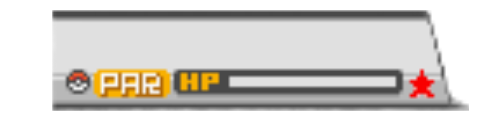
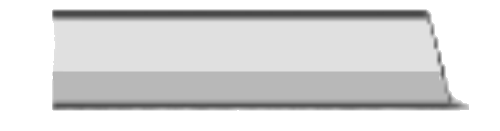
css 0.1.1

Changed region(s): [[0.09, 0.5191, 0.9, 0.7634], [0.09, 0.8244, 0.93, 0.855], [0.09, 0.0611, 0.87, 0.0916]]

diff --git a/src/app/components/pelea_carpeta/campo-de-batalla/campo-de-batalla.component.html b/src/app/components/pelea_carpeta/campo-de-batalla/campo-de-batalla.component.html
@@ -4,13 +4,13 @@
 
     <section>
 
-        <section id="datoBack">
+        <section class="dato" id="datoBack">
             <p id="nombreBack">{{j1.pokemons[pokemonPeleandoj1].nombre}}</p>
             <div>barra de vida</div>
             <p>{{j1.pokemons[pokemonPeleandoj1].vidaActual}} / {{j1.pokemons[pokemonPeleandoj1].vida}}</p>
             <ol>efectos</ol>
-            <img src='./../../../../assets/img/pokeUI.png' alt="img " srcset="" id="ImgBack">
-        </section>
+<!--             <img src='./../../../../assets/img/pokeUI.png' alt="img " srcset="" id="ImgBack">
+ -->        </section>
 
         <img [src]="j1.pokemons[pokemonPeleandoj1].urlImgBack" alt="imgPokeActual" id="imagenTrasera">
 <!--         <img src="https://raw.githubusercontent.com/PokeAPI/sprites/master/sprites/pokemon/back/145.png" alt="imgPokeActual" id="imagenTrasera">
@@ -19,13 +19,13 @@
 
     <!--parte inferior-->
     <section>
-        <section id="datoFront">
+        <section class="dato" id="datoFront">
             <p id="nombreFront">{{j2.pokemons[pokemonPeleandoj2].nombre}}</p>
             <div>barra de vida</div>
             <p>{{j2.pokemons[pokemonPeleandoj2].vidaActual}} / {{j2.pokemons[pokemonPeleandoj2].vida}}</p>
             <ol>efectos</ol>
-            <img src='./../../../../assets/img/pokeUI.png' alt="img" srcset="" id="ImgFront">
-        </section>
+<!--             <img src='./../../../../assets/img/pokeUI.png' alt="img" srcset="" id="ImgFront">
+ -->        </section>
 
         <img [src]="j2.pokemons[pokemonPeleandoj2].urlImgFront" alt="imgPokeActual" id="imagenDelantera">
         <!-- <img src="https://raw.githubusercontent.com/PokeAPI/sprites/master/sprites/pokemon/146.png" alt="imgPokeActual" id="imagenDelantera"> -->

diff --git a/src/app/components/pelea_carpeta/campo-de-batalla/campo-de-batalla.component.css b/src/app/components/pelea_carpeta/campo-de-batalla/campo-de-batalla.component.css
@@ -36,22 +36,24 @@
 }
 
 #datoBack{
+    
     position: absolute;
     top: 90%;
     left: 70%; /* Adjust this value as needed */
     transform: translate(-50%, -50%);
-    height: 30vh;
-    width: 30vh;
+    height: 10vh;
+    width: 40vh;
     
 }
 
 #datoFront{
+   
     position: absolute;
     top: 30%;
-    left: 15%; /* Adjust this value as needed */
+    left: 20%; /* Adjust this value as needed */
     transform: translate(-50%, -50%);
-    height: 30vh;
-    width: 30vh;
+    height: 10vh;
+    width: 40vh;
     z-index: 1;
 }
 
@@ -73,4 +75,16 @@
     left: 50%;
     z-index: 1;
     /* Other styles */
+}
+.dato{
+    border-style: solid;
+    background-image: url(src\assets\img\pokeui.png);
+    background-size:  150%;
+    background-repeat: no-repeat;
+    background-position: center;
+    
+    
+    
+    border: 20px solid;
+    border-image: url(src\assets\img\bordeInfoBatalla168Trans.png) 40 30 3 repeat;
 }
